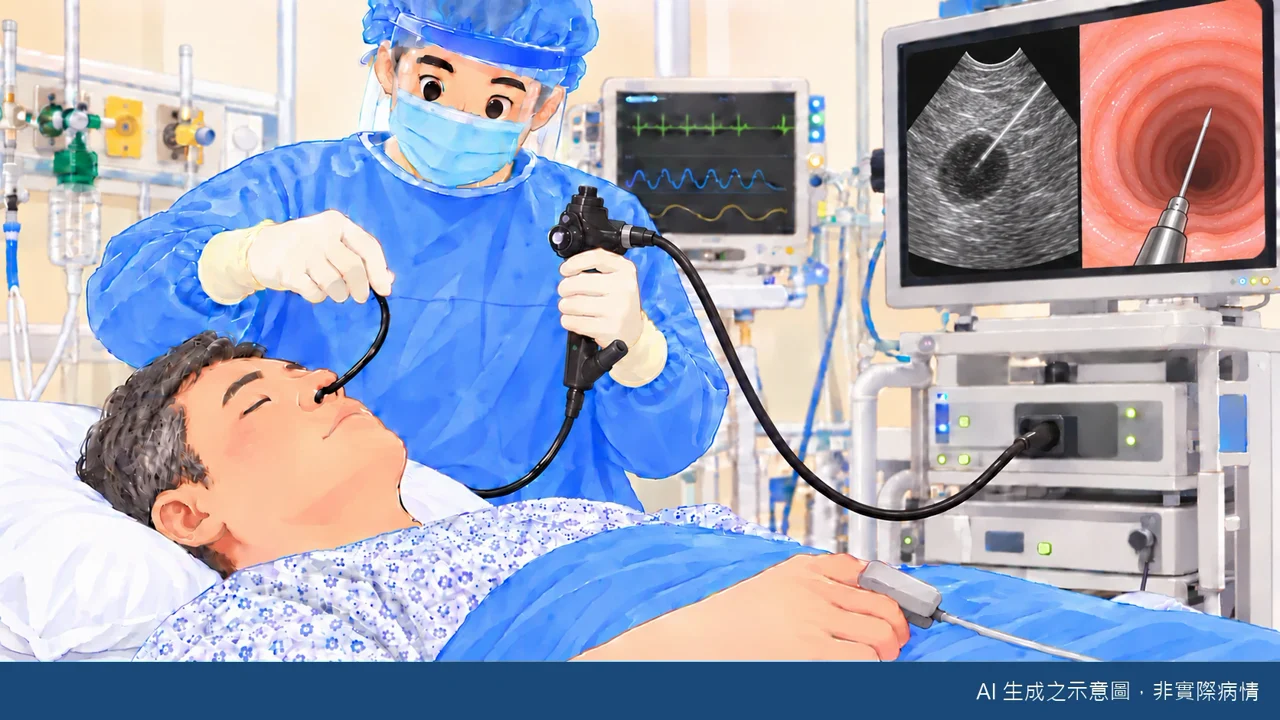
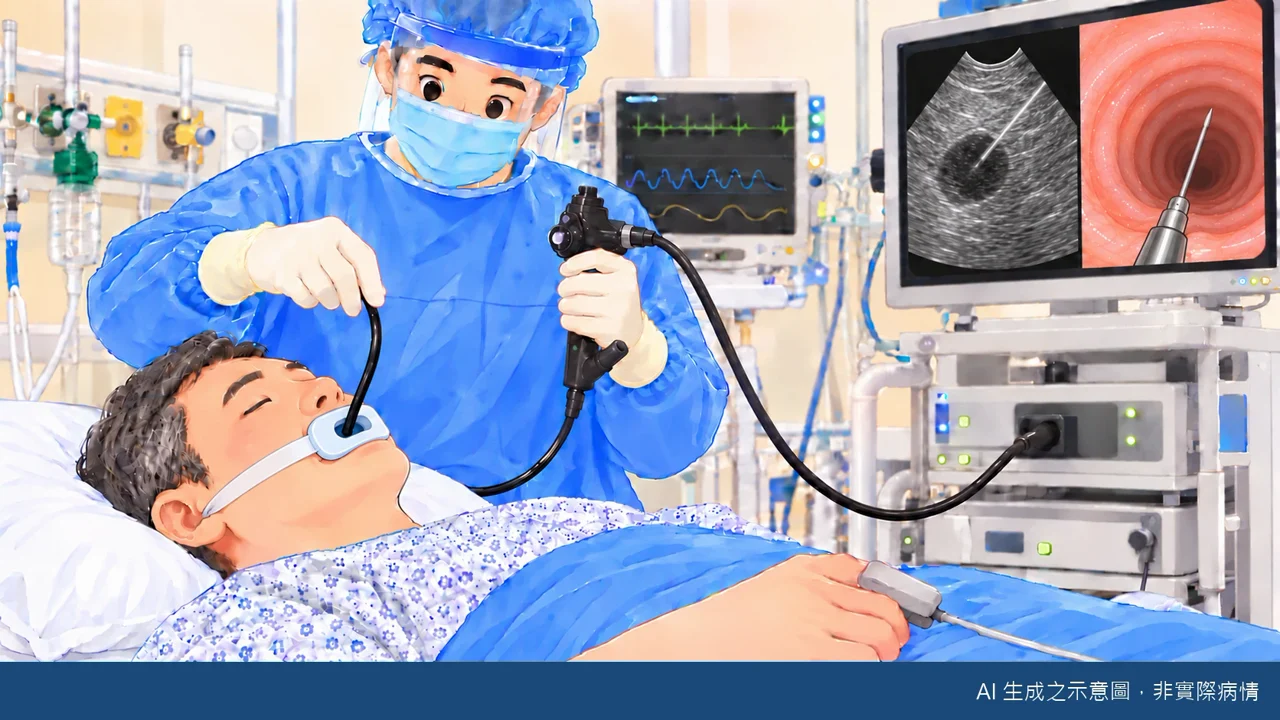
Showcase: EBUS-TBNA picture - oral route with a bite block

diff --git a/Tools/lung-showcase-src/src/demos.js b/Tools/lung-showcase-src/src/demos.js
@@ -11,7 +11,7 @@ const HOME = [[0, .15, 7.9], [0, -.1, 0]];
 // A picture whose file is missing stays hidden, so these can be added at any time.
 const pictures = {
   bronch: [{ src: 'lung-showcase/images/bronch-room.webp', caption: 'AI 生成之示意圖：支氣管鏡室，醫師站在床頭，鏡子由鼻孔進入，旁邊的螢幕顯示氣管內部，夾子可以夾取組織' }],
-  tbna: [{ src: 'lung-showcase/images/tbna-room.webp', caption: 'AI 生成之示意圖：超音波支氣管鏡檢查，螢幕同時顯示超音波影像（看到淋巴結和針）與氣管內部' }],
+  tbna: [{ src: 'lung-showcase/images/tbna-room.webp', caption: 'AI 生成之示意圖：超音波支氣管鏡檢查，病人嘴巴含著咬口器，鏡子由口腔進入；螢幕同時顯示超音波影像（看到淋巴結和針）與氣管內部' }],
   drain: [{ src: 'lung-showcase/images/pigtail-bedside.webp', caption: 'AI 生成之示意圖：床邊放置胸腔引流管，病人坐著、身體前傾，醫師從側背部把導管放入' }],
   sound: [{ src: 'lung-showcase/images/auscultation.webp', caption: '用聽診器聽診的情形' }],
   ct: [{ src: 'lung-showcase/images/ct-table.webp', caption: 'AI 生成之示意圖：病人躺在檢查台上，醫師看著影像引導針進入' }]
